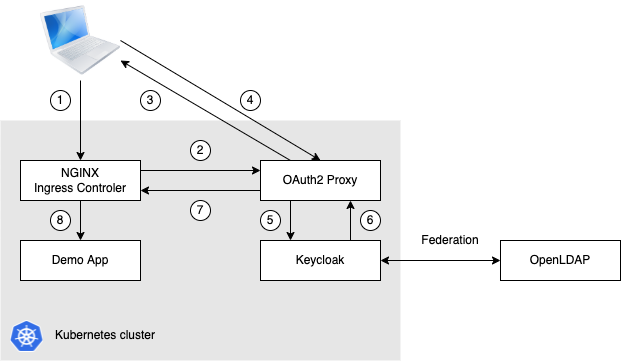
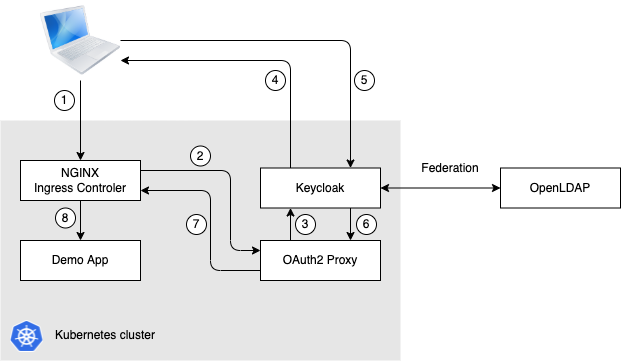
update

diff --git a/README.md b/README.md
@@ -6,7 +6,7 @@ The purpose of this project is to test Keycloak using federation with an externa
 
 ---
 
-## The lab
+## Install the lab
 
 <img src="docs/images/keycloak-federation.png" width="350px" />
 
@@ -14,7 +14,7 @@ Install and configure the lab:
 - See [How to setup the kubernetes cluster](cluster/README.md)
 - See [How to setup  the SSO solution](lab/README.md)
 
-## Deploying a secure applications
+## Deploy a secured application
 
 We use [NGINX](https://nginx.org/en/) as demo application to check if the SSO solution, including OAuth2 Proxy, is working well. In this example we want that users login with Keycloak before they can access the welcome page of NGINX.
 
@@ -29,5 +29,47 @@ helm upgrade --install nginx-demo-app bitnami/nginx --values nginx-demo-app/valu
 
 Then use your favorite browser with private windows to try accessing the demo app `https://nginx-demo-app.ssotest.perelle.com` with or without being logged in before.
 
-- OAuth2 Proxy redirects you to Keycloak login page if your are not already identified
+- You get the Keycloak login page if your are not already identified
 - You can directly access the demo app if you are already identified 
+
+## Identification process
+
+Let's have a look at the detailled process:
+
+<img src="docs/images/sso-process-overview.png" width="500px" />
+
+1. Customer requests the demo app
+2. Ingress controler redirect to OAuth2 Proxy according annotations in the demo app ingress
+3. OAuth2 Proxy checks with Keycloak if the user is authenticated
+4. The user is not identified, Keycloak presents the login page
+5. The user fills in his credentials for authentcation
+6. Keycloak passes identification datas to OAuth2 Proxy
+7. OAuth2 Proxy informs Ingress Controler that the user is identified and is authorized to access the application
+8. Ingress controler routes the request to the demo app
+
+## Few tests
+
+### LDAP deconnexion
+
+What happens if OpenLDAP goes down and the federation doesn't work anymore ?\
+Let's see if I can continue authenticating to Keycloak and accessing the secured application.
+
+Scale OpenLDAP down to 0 replicas:
+
+```bash
+kubectl scale --replicas=0 deployment.apps/openldap -n identity
+```
+
+Try to access our demo application at https://nginx-demo-app.ssotest.perelle.com with a new private window. 
+
+We are redirected to the Keycloak login page for authentication, and then get an error due to identity provider unavailability:
+
+<img src="docs/images/test-error-federation.png" width="350px" />
+
+Get back to 1 replica for OpenLDAP:
+
+```bash
+kubectl scale --replicas=1 deployment.apps/openldap -n identity
+```
+
+It works again.

diff --git a/lab/README.md b/lab/README.md
@@ -263,7 +263,7 @@ Then deploy OAuth2 Proxy with the embedded chart:
 
 ```bash 
 helm repo add oauth2-proxy https://oauth2-proxy.github.io/manifests
-helm upgrade --install oauth2-proxy oauth2-proxy/oauth2-proxy --values oauth2-proxy/values-oauth2-proxy.yml
+helm upgrade --install oauth2-proxy oauth2-proxy/oauth2-proxy --values oauth2-proxy/values-oauth2-proxy.yml --namespace identity --create-namespace
 ```
 
 We get the `Sign in with Keycloak` option when we access to OAuth2 Proxy ingress domain at https://oauth.ssotest.perelle.com
